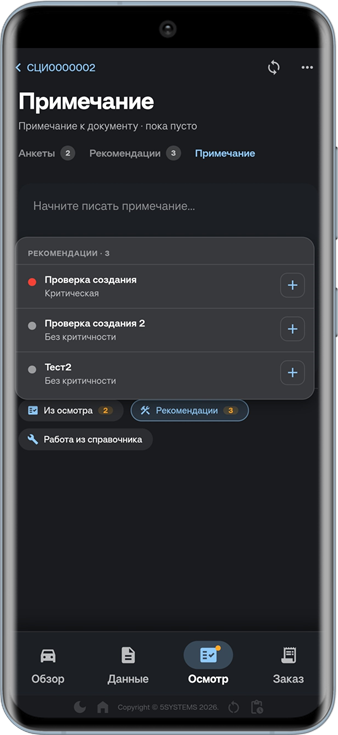
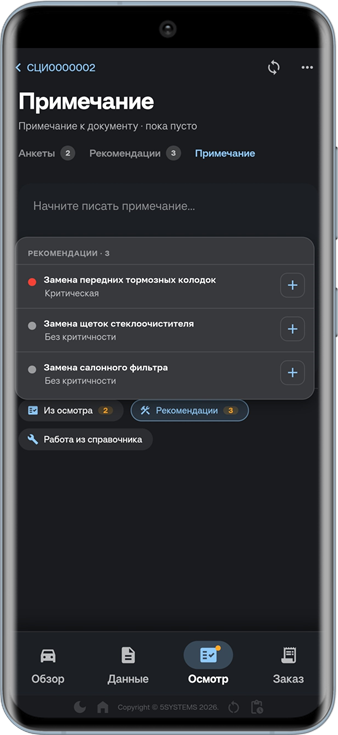
Работа с приложением 5S Remzona (черновик в Katya): описание карточек «Данных», чистовые данные на скриншотах примечания (рекомендации вместо «Проверка создания», «Тест2»), скриншоты справочников — по пунктам (Катя, 05.10.2026).

Changed region(s): [[0.1183, 0.3592, 0.6509, 0.3891], [0.1183, 0.419, 0.5621, 0.449], [0.1183, 0.4789, 0.503, 0.5088]]

diff --git a/articles/5S AUTO/Автосервис/Работа с приложением 5S Remzona/rabota-s-prilozheniem-5s-remzona.md b/articles/5S AUTO/Автосервис/Работа с приложением 5S Remzona/rabota-s-prilozheniem-5s-remzona.md
@@ -160,13 +160,13 @@
 
 Основные сведения о документе собраны в карточках:
 
-- ***Клиент***;
+- ***Клиент*** – наименование клиента и тип: частное или юридическое лицо;
 - ***Автомобиль*** – изображение, марка и модель, VIN и гос. номер;
-- ***Статус*** – текущий статус и этап;
-- ***Пробег***;
-- ***Мастер***;
+- ***Статус*** – текущий статус заказ-наряда, шкала этапов и номер этапа (например, *«этап 3 из 5»*);
+- ***Пробег*** – пробег автомобиля, указанный в заказ-наряде;
+- ***Мастер*** – мастер, ответственный за заказ-наряд;
 - ***Место*** – место выполнения работ, подразделение и организация;
-- ***Комментарий.***
+- ***Комментарий*** – комментарий к заказ-наряду из 5S AUTO; карточка выводится, если комментарий заполнен.
 
 Нажмите на карточку, чтобы открыть меню действий:
 
@@ -236,13 +236,11 @@
 - ***«Рекомендации»*** – рекомендации по автомобилю с указанием срочности;
 - ***«Работа из справочника»*** – справочник авторабот с поиском по названию и артикулу. Нажмите на работу и выберите *«Выбрать»* – ее название добавится в примечание отдельной пронумерованной строкой (*«Информация»* – карточка работы).
 
-Нажмите ***«+»*** рядом с пунктом или рекомендацией – она добавится в текст примечания (рекомендация – вместе со срочностью в скобках, например *«Замена щеток (без критичности)»*). Внизу экрана появится строка *«Изменено: текст примечания»* с кнопками ***«Отменить»*** и ***«Сохранить примечание»***. Чтобы записать примечание в 5S AUTO, нажмите ***«Сохранить примечание»***.
+Нажмите ***«+»*** рядом с пунктом или рекомендацией – она добавится в текст примечания (рекомендация – вместе со срочностью в скобках, например *«Замена салонного фильтра (без критичности)»*). Внизу экрана появится строка *«Изменено: текст примечания»* с кнопками ***«Отменить»*** и ***«Сохранить примечание»***. Чтобы записать примечание в 5S AUTO, нажмите ***«Сохранить примечание»***.
 
 ![5S Remzona – примечание](attachments/20-primechanie.png) &nbsp;&nbsp;&nbsp;&nbsp;&nbsp;&nbsp; ![5S Remzona – пункты из осмотра в примечании](attachments/38-primechanie-iz-osmotra.png)
 
 ![5S Remzona – добавление рекомендации в примечание](attachments/36-primechanie-rekomendacii.png) &nbsp;&nbsp;&nbsp;&nbsp;&nbsp;&nbsp; ![5S Remzona – сохранение примечания](attachments/37-sohranenie-primechaniya.png)
-
-> 🛠 Комментарий для черновика: *черновые скриншоты (тестовые данные) – пункты из осмотра, добавление рекомендации, сохранение примечания; использованы для описания, перед публикацией подправить данные или переснять.*
 
 ### 4. Заказ
 
@@ -398,18 +396,25 @@
 
 Справочники открываются с главной страницы, из блока *«Разделы»*. В каждом справочнике есть строка поиска, карточка элемента открывается нажатием на него в списке. Кнопка ***«Обновить»*** вверху карточки загружает актуальные данные из программы.
 
-- ***Контрагенты*** – клиенты и поставщики. В списке указаны вид отношений (покупатель, поставщик) и тип (частное или юридическое лицо); в карточке – вид отношений, пол, дата рождения, ИНН, телефоны, email, Telegram, VK и Max;
-- ***Автомобили*** – автомобили клиентов: модель, гос. номер и VIN; есть отбор по владельцу. В карточке – наименование, марка, модель, гос. номер, VIN, зафиксированный пробег, дата последнего визита и владелец;
-- ***Автоработы*** – работы с нормо-часами и анкетами: наименование и артикул; есть отбор по анкете;
-- ***Номенклатура*** – товары и материалы: наименование, артикул и производитель;
-- ***Производители*** – производители товаров и запчастей, с логотипами;
-- ***Сотрудники*** – мастера и исполнители; есть отборы *«Только исполнители»* и *«Уволенные»*.
+***Контрагенты*** – клиенты и поставщики. В списке указаны вид отношений (покупатель, поставщик) и тип (частное или юридическое лицо); в карточке – вид отношений, пол, дата рождения, ИНН, телефоны, email, Telegram, VK и Max.
 
-![5S Remzona – справочник «Контрагенты»](attachments/23-kontragenty.png) &nbsp;&nbsp;&nbsp;&nbsp;&nbsp;&nbsp; ![5S Remzona – справочник «Автомобили»](attachments/24-avtomobili.png)
+![5S Remzona – справочник «Контрагенты»](attachments/23-kontragenty.png) &nbsp;&nbsp;&nbsp;&nbsp;&nbsp;&nbsp; ![5S Remzona – карточка контрагента](attachments/25-kartochka-kontragenta.png)
 
-![5S Remzona – карточка контрагента](attachments/25-kartochka-kontragenta.png) &nbsp;&nbsp;&nbsp;&nbsp;&nbsp;&nbsp; ![5S Remzona – карточка автомобиля](attachments/34-kartochka-avtomobilya.png)
+***Автомобили*** – автомобили клиентов: модель, гос. номер и VIN; есть отбор по владельцу. В карточке – наименование, марка, модель, гос. номер, VIN, зафиксированный пробег, дата последнего визита и владелец.
 
-![5S Remzona – справочник «Производители»](attachments/40-proizvoditeli.png) &nbsp;&nbsp;&nbsp;&nbsp;&nbsp;&nbsp; ![5S Remzona – справочник «Сотрудники»](attachments/41-sotrudniki.png)
+![5S Remzona – справочник «Автомобили»](attachments/24-avtomobili.png) &nbsp;&nbsp;&nbsp;&nbsp;&nbsp;&nbsp; ![5S Remzona – карточка автомобиля](attachments/34-kartochka-avtomobilya.png)
+
+***Автоработы*** – работы с нормо-часами и анкетами: наименование и артикул; есть отбор по анкете.
+
+***Номенклатура*** – товары и материалы: наименование, артикул и производитель.
+
+***Производители*** – производители товаров и запчастей, с логотипами.
+
+![5S Remzona – справочник «Производители»](attachments/40-proizvoditeli.png)
+
+***Сотрудники*** – мастера и исполнители; есть отборы *«Только исполнители»* и *«Уволенные»*.
+
+![5S Remzona – справочник «Сотрудники»](attachments/41-sotrudniki.png)
 
 ## Настройки приложения
 
